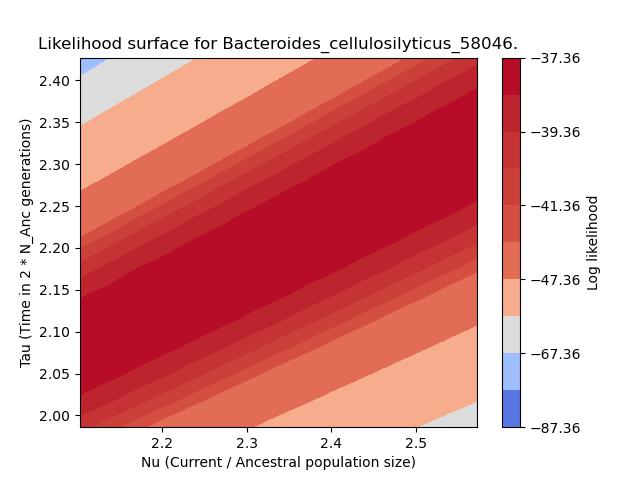
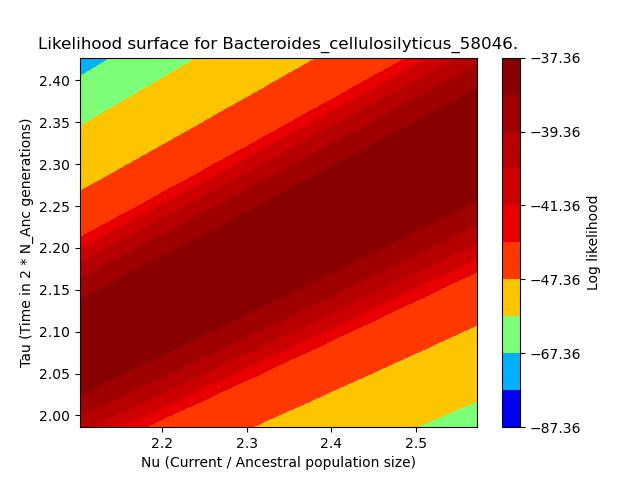
B. cell

diff --git a/Scripts/plot_likelihood.py b/Scripts/plot_likelihood.py
@@ -513,7 +513,7 @@ class PlotLikelihood():
                           max_likelihood - 2,
                           max_likelihood - 1,
                           max_likelihood]
-                contourplot = ax.contourf(X, Y, Z, levels=levels, cmap=cm.coolwarm)
+                contourplot = ax.contourf(X, Y, Z, levels=levels, cmap=cm.jet)
                 # ticks = numpy.arange(z_min, z_max, 1.0)
                 cbar = fig.colorbar(contourplot, label='Log likelihood') # Add a colorbar to a plot
                 # cbar.ax.set_ylabel('Log likelihood')
